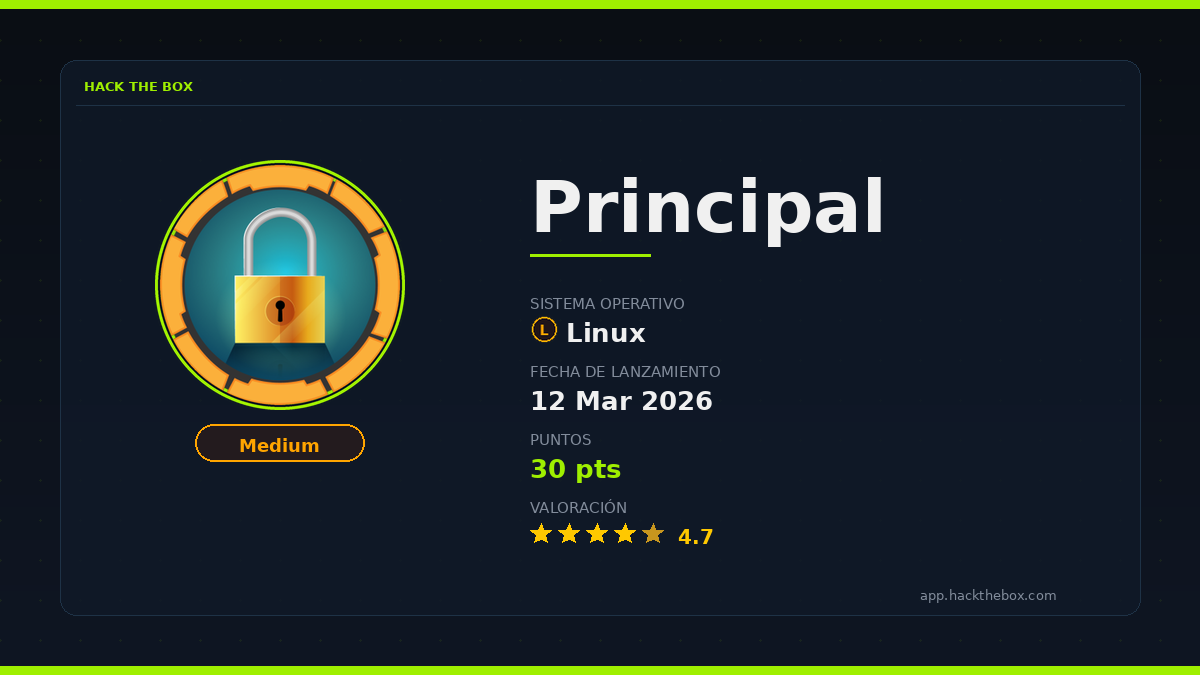
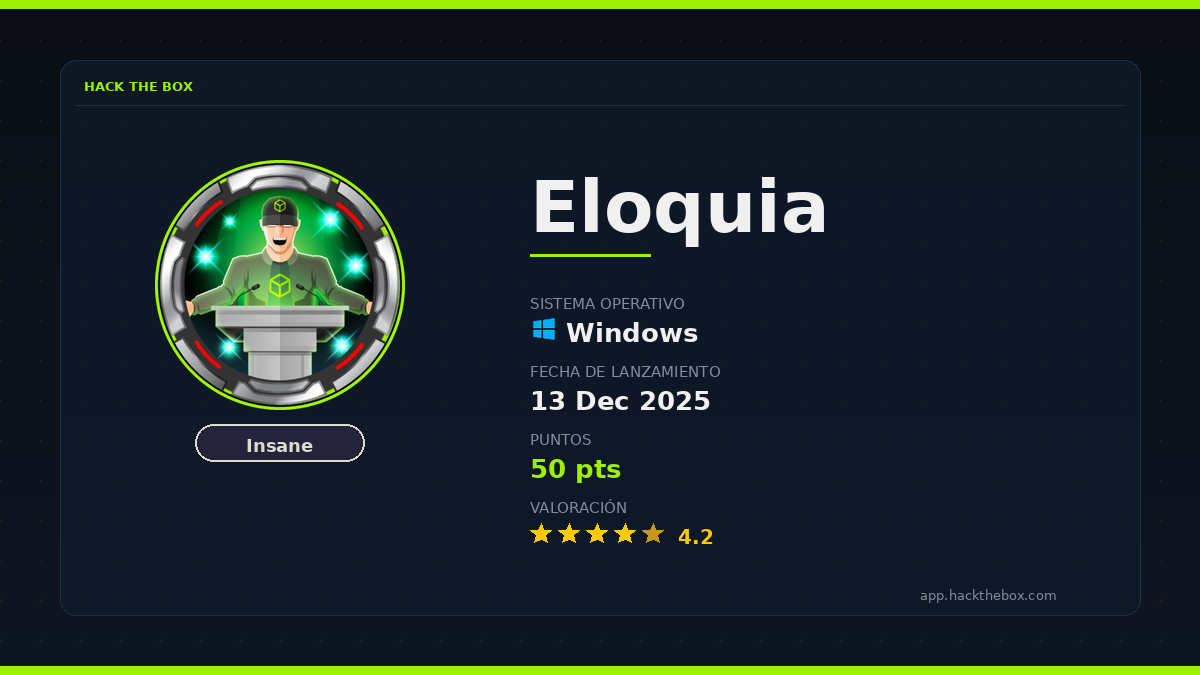
modificaciones visuales

diff --git a/cover_generator.py b/cover_generator.py
@@ -38,12 +38,12 @@ COLOR_GREY      = (130, 140, 155)
 COLOR_DARK_CARD = (20,  30,  45)
 COLOR_BORDER    = (30,  50,  70)
 
-# Colores de dificultad
+# Colores de dificultad (paleta HackTheBox)
 DIFFICULTY_COLORS = {
-    "Easy":     (0,   200,  80),
-    "Medium":   (255, 165,   0),
-    "Hard":     (220,  50,  50),
-    "Insane":   (180,  40, 220),
+    "Easy":     (0,   204,  68),   # verde HTB
+    "Medium":   (255, 130,   0),   # naranja HTB
+    "Hard":     (210,  35,  35),   # rojo HTB
+    "Insane":   (220, 220, 205),   # gris claro / blanco sucio HTB
 }
 
 # Rutas de fuentes (Poppins disponible en el sistema)
@@ -211,32 +211,65 @@ def circle_avatar(avatar: Image.Image, size: int) -> Image.Image:
     return hi.resize((total, total), Image.LANCZOS)
 
 
+# ─── Iconos de SO (PNGs externos en subcarpeta icons/) ───────────────────────
+
+# Mapeo SO → nombre de fichero dentro de icons/
+_OS_ICON_FILES = {
+    "windows": "windows.png",
+    "linux":   "linux.png",
+    "freebsd": "freebsd.png",
+    "openbsd": "openbsd.png",
+    "mac":     "mac.png",
+    "other":   "other.png",   # opcional; si no existe se usa fallback
+}
+
+# Directorio de iconos relativo al script
+_ICONS_DIR = os.path.join(os.path.dirname(os.path.abspath(__file__)), "icons")
+
+
 def os_icon(os_name: str, size: int) -> Image.Image:
-    """Genera un icono simple para el SO."""
-    img = Image.new("RGBA", (size, size), (0, 0, 0, 0))
-    draw = ImageDraw.Draw(img)
-    cx, cy, r = size // 2, size // 2, size // 2 - 2
+    """Carga el icono PNG del SO desde la subcarpeta icons/ y lo redimensiona."""
+    os_lower = os_name.lower() if os_name else ""
 
-    os_lower = os_name.lower()
-    if "linux" in os_lower:
-        color = (255, 165, 0)   # naranja
-    elif "windows" in os_lower:
-        color = (0, 120, 215)   # azul Windows
-    elif "freebsd" in os_lower or "openbsd" in os_lower:
-        color = (220, 50, 50)
-    elif "android" in os_lower:
-        color = (60, 180, 75)
+    if "windows" in os_lower:
+        key = "windows"
+    elif "linux" in os_lower:
+        key = "linux"
+    elif "freebsd" in os_lower:
+        key = "freebsd"
+    elif "openbsd" in os_lower:
+        key = "openbsd"
+    elif "mac" in os_lower or "darwin" in os_lower or "osx" in os_lower:
+        key = "mac"
     else:
-        color = (150, 150, 150)
+        key = "other"
 
-    draw.ellipse([2, 2, size-2, size-2], fill=(color[0]//8, color[1]//8, color[2]//8 + 25, 255),
-                 outline=(*color, 255), width=2)
+    icon_path = os.path.join(_ICONS_DIR, _OS_ICON_FILES.get(key, ""))
+
+    # Si el fichero existe, cargarlo y redimensionar manteniendo proporción
+    if os.path.isfile(icon_path):
+        try:
+            img = Image.open(icon_path).convert("RGBA")
+            # Redimensionar preservando relación de aspecto y centrando en lienzo cuadrado
+            img.thumbnail((size, size), Image.LANCZOS)
+            canvas = Image.new("RGBA", (size, size), (0, 0, 0, 0))
+            offset = ((size - img.width) // 2, (size - img.height) // 2)
+            canvas.paste(img, offset, img)
+            return canvas
+        except Exception as e:
+            print(f"⚠  No se pudo cargar el icono '{icon_path}': {e}")
+
+    # Fallback: círculo gris con inicial del SO
+    fallback = Image.new("RGBA", (size, size), (0, 0, 0, 0))
+    d = ImageDraw.Draw(fallback)
+    col = (150, 150, 160, 255)
+    d.ellipse([2, 2, size - 2, size - 2], outline=col, width=2)
     f = font(FONT_BOLD, size // 2)
     letter = os_name[0].upper() if os_name else "?"
-    bbox = draw.textbbox((0, 0), letter, font=f)
+    bbox = d.textbbox((0, 0), letter, font=f)
     tw, th = bbox[2] - bbox[0], bbox[3] - bbox[1]
-    draw.text((cx - tw // 2, cy - th // 2 - 2), letter, font=f, fill=(*color, 255))
-    return img
+    d.text((size // 2 - tw // 2, size // 2 - th // 2 - 2), letter, font=f, fill=col)
+    return fallback
 
 
 def difficulty_badge(text: str, w=180, h=42) -> Image.Image:

diff --git a/README.md b/README.md
@@ -11,7 +11,8 @@ Genera una portada visual en formato PNG con la información básica de cualquie
 - Consulta automática a la API oficial de HackTheBox
 - Descarga el avatar real de la máquina
 - Muestra nombre, sistema operativo, dificultad, fecha de lanzamiento, puntos y valoración
-- Badge de dificultad con color dinámico (Easy / Medium / Hard / Insane)
+- Badge de dificultad con color dinámico acorde a la paleta oficial de HTB (Easy / Medium / Hard / Insane)
+- Icono del sistema operativo cargado desde PNG externo (subcarpeta `icons/`)
 - Borde del avatar con antialiasing mediante supersampling 4x
 - Paleta de colores oficial de HTB (`#9FEF00`)
 - Imagen de salida en PNG a resolución 1200×675 (16:9)
@@ -88,13 +89,50 @@ python3 cover_generator.py 622 --token eyJhbGci...
 
 ---
 
+## Colores de dificultad
+
+Los badges de dificultad usan la paleta de colores oficial de HackTheBox:
+
+| Dificultad | Color |
+|------------|-------|
+| Easy | Verde `#94D457` |
+| Medium | Naranja `#FF9500` |
+| Hard | Rojo `#FF4141` |
+| Insane | Gris claro `#E1E1D7` |
+
+---
+
+## Iconos de sistema operativo
+
+Los iconos se cargan desde la subcarpeta `icons/` ubicada en el mismo directorio que el script. El nombre de cada fichero debe coincidir con el siguiente mapeo:
+
+| Sistema operativo | Fichero |
+|-------------------|---------|
+| Windows | `icons/windows.png` |
+| Linux | `icons/linux.png` |
+| FreeBSD | `icons/freebsd.png` |
+| OpenBSD | `icons/openbsd.png` |
+| macOS / Darwin | `icons/mac.png` |
+
+Los iconos se redimensionan automáticamente a 28×28 píxeles manteniendo la relación de aspecto. Si el fichero correspondiente a un SO no se encuentra, se muestra un icono de fallback con la inicial del nombre del sistema operativo.
+
+Para añadir soporte a un nuevo SO, basta con colocar su PNG en `icons/` y añadir la entrada correspondiente al diccionario `_OS_ICON_FILES` dentro del script.
+
+---
+
 ## Estructura del proyecto
 
 ```
 htb-cover-generator/
 ├── cover_generator.py       # Script principal
-├── README.md          # Este fichero
-└── portada.png        # Imagen de ejemplo
+├── README.md                # Este fichero
+├── portada.png              # Imagen de ejemplo
+└── icons/                   # Iconos de sistemas operativos
+    ├── windows.png
+    ├── linux.png
+    ├── freebsd.png
+    ├── openbsd.png
+    └── mac.png
 ```
 
 ---
@@ -103,4 +141,5 @@ htb-cover-generator/
 
 - El script no requiere que la máquina esté activa o retirada; funciona con cualquier máquina a la que tengas acceso con tu cuenta.
 - Si el avatar no puede descargarse (por cambios en la infraestructura de HTB), se genera un placeholder con la inicial del nombre de la máquina.
+- Si un icono de SO no se encuentra en `icons/`, el script continúa sin interrumpirse y muestra un icono de fallback con la inicial del SO.
 - Los mensajes de consola del script están en español.
